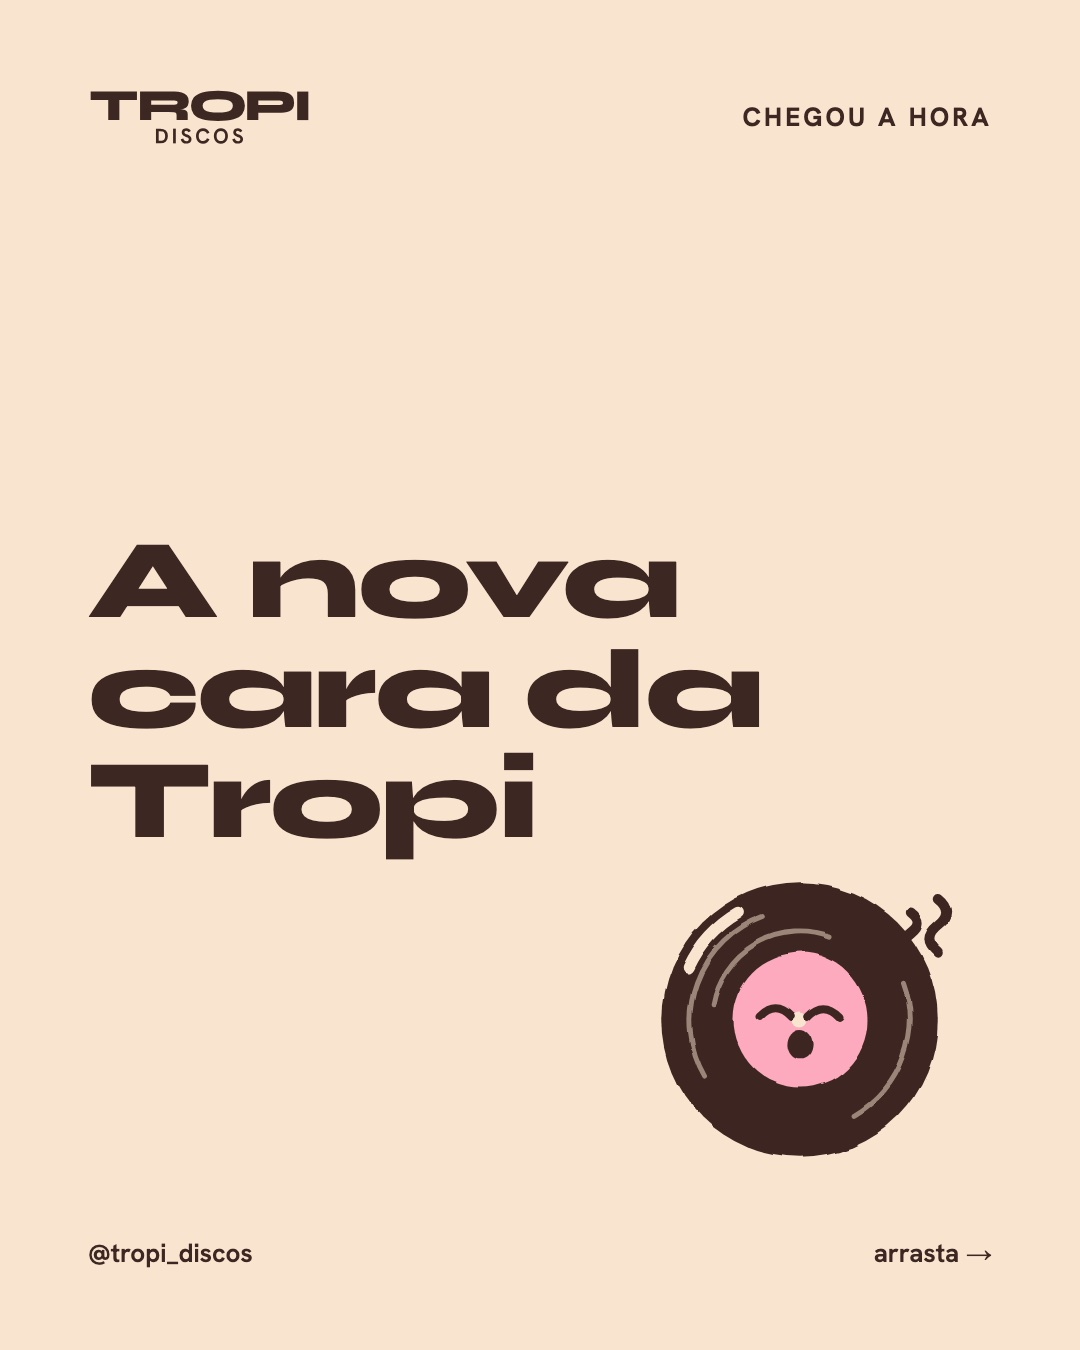
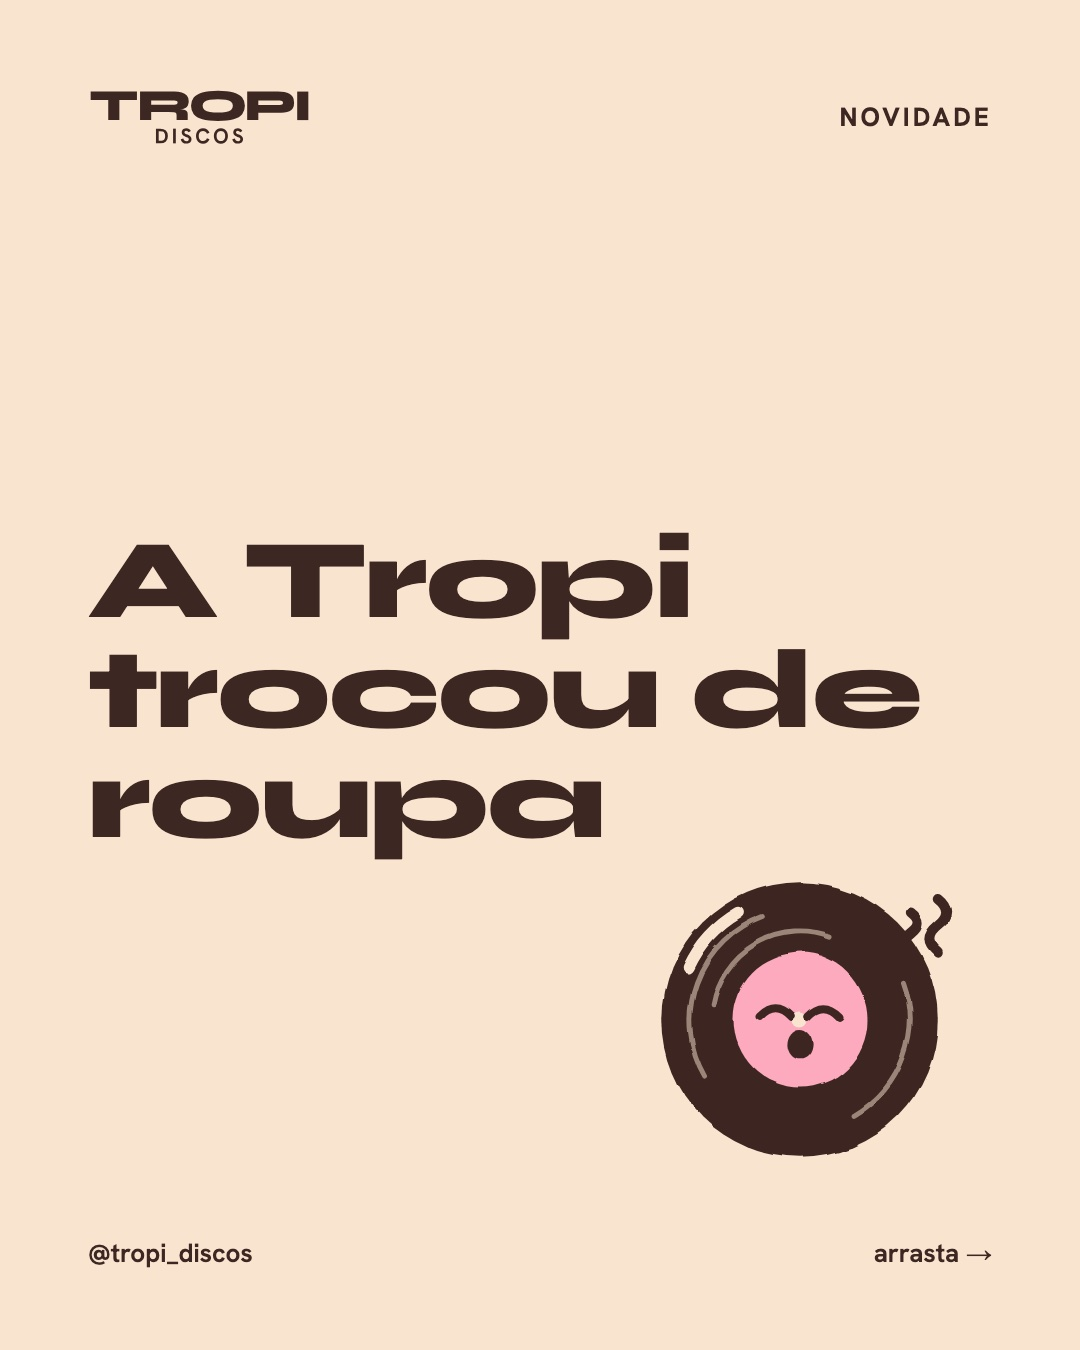
conteudo(tropi): post 05 com texto mais leve e o site novo no slide 4

Changed region(s): [[0.0611, 0.3733, 0.8556, 0.6533], [0.6722, 0.0622, 0.9167, 0.0933]]

diff --git a/clientes/tropi/2026-10/posts/05-nova-cara-da-tropi/slide-4.html b/clientes/tropi/2026-10/posts/05-nova-cara-da-tropi/slide-4.html
@@ -6,9 +6,8 @@
 </head>
 <body class="bg-oliva">
 <div class="topo"><img class="logo" src="file:///Users/Lucas/Documents/Freelas/tropi-discos/marca/logo/final/logo/tropi-logo-cafe.svg" alt="Tropi Discos"><span class="count">04 / 06</span></div>
-<div class="bloco" style="margin-top:430px"><span class="rotulo">Mais tropical</span><h2 class="ttl">A Tropi ficou mais tropical</h2><p class="texto">A cara nova puxa o lado tropical que sempre esteve no nome.</p></div>
+<div class="bloco" style="gap:34px"><h2 class="ttl" style="max-width:none">O site também entrou na onda</h2><div style="border:6px solid var(--tropi-cafe);border-radius:24px;background:var(--tropi-creme);overflow:hidden;box-shadow:0 26px 50px rgba(60,39,34,.30)"><div style="display:flex;gap:12px;padding:16px 20px;border-bottom:5px solid var(--tropi-cafe)"><i style="width:18px;height:18px;border-radius:50%;background:var(--tropi-goiaba);border:3px solid var(--tropi-cafe)"></i><i style="width:18px;height:18px;border-radius:50%;background:var(--tropi-oliva);border:3px solid var(--tropi-cafe)"></i><i style="width:18px;height:18px;border-radius:50%;background:var(--tropi-creme);border:3px solid var(--tropi-cafe)"></i></div><img src="site.png" style="display:block;width:100%" alt=""></div><span class="cta">tropidiscos.com.br</span></div>
 <div class="rodape"><span class="handle">@tropi_discos</span></div>
-<img class="elemento" src="file:///Users/Lucas/Documents/Freelas/tropi-discos/marca/elementos/coqueiro/fundo-oliva/coqueiro-02-simples.svg" style="width:440px;right:60px;top:130px" alt="">
 <script src="file:///Users/Lucas/Documents/Freelas/tropi-discos/marca/elementos/gerador/desenho.js"></script>
 <script src="file:///Users/Lucas/Documents/Freelas/tropi-discos/marca/estudos/elementos-posts-outubro.js"></script>
 <script>TropiPosts.desenharTodos();</script>

diff --git a/clientes/tropi/2026-10/posts/05-nova-cara-da-tropi/slide-2.html b/clientes/tropi/2026-10/posts/05-nova-cara-da-tropi/slide-2.html
@@ -6,7 +6,7 @@
 </head>
 <body class="bg-goiaba">
 <div class="topo"><img class="logo" src="file:///Users/Lucas/Documents/Freelas/tropi-discos/marca/logo/final/logo/tropi-logo-cafe.svg" alt="Tropi Discos"><span class="count">02 / 06</span></div>
-<div class="bloco"><span class="rotulo">As cores</span><h2 class="ttl">Café e goiaba</h2><div class="amostras"><span class="amostra"><i style="background:var(--tropi-creme)"></i>Creme</span><span class="amostra"><i style="background:var(--tropi-goiaba)"></i>Goiaba</span><span class="amostra"><i style="background:var(--tropi-oliva)"></i>Oliva</span><span class="amostra"><i style="background:var(--tropi-cafe)"></i>Café</span></div><p class="texto">Quatro cores novas para a mesma loja: creme, goiaba, oliva e café.</p></div>
+<div class="bloco"><h2 class="ttl">Pintou cor nova por aqui</h2><div class="amostras"><span class="amostra"><i style="background:var(--tropi-creme)"></i></span><span class="amostra"><i style="background:var(--tropi-goiaba)"></i></span><span class="amostra"><i style="background:var(--tropi-oliva)"></i></span><span class="amostra"><i style="background:var(--tropi-cafe)"></i></span></div><p class="texto">Tem cheiro de café e gosto de goiaba.</p></div>
 <div class="rodape"><span class="handle">@tropi_discos</span></div>
 <script src="file:///Users/Lucas/Documents/Freelas/tropi-discos/marca/elementos/gerador/desenho.js"></script>
 <script src="file:///Users/Lucas/Documents/Freelas/tropi-discos/marca/estudos/elementos-posts-outubro.js"></script>

diff --git a/clientes/tropi/2026-10/posts/05-nova-cara-da-tropi/slide-5.html b/clientes/tropi/2026-10/posts/05-nova-cara-da-tropi/slide-5.html
@@ -6,7 +6,7 @@
 </head>
 <body class="bg-creme">
 <div class="topo"><img class="logo" src="file:///Users/Lucas/Documents/Freelas/tropi-discos/marca/logo/final/logo/tropi-logo-cafe.svg" alt="Tropi Discos"><span class="count">05 / 06</span></div>
-<div class="bloco"><span class="rotulo">O que continua</span><h2 class="ttl">Os mesmos discos</h2><img class="capa-disco" src="capa.png" style="width:520px" alt=""><p class="texto" style="max-width:28ch">Xande Canta Caetano em vinil transparente 180g e o resto da Seleção Tropi, no mesmo lugar.</p></div>
+<div class="bloco"><span class="rotulo">O que não muda</span><h2 class="ttl">Os discos, esses continuam</h2><img class="capa-disco" src="capa.png" style="width:500px" alt=""><p class="texto" style="max-width:28ch">Escolhidos um a um, do jeito de sempre. Tipo esse Xande Canta Caetano em vinil transparente.</p></div>
 <div class="rodape"><span class="handle">@tropi_discos</span></div>
 <script src="file:///Users/Lucas/Documents/Freelas/tropi-discos/marca/elementos/gerador/desenho.js"></script>
 <script src="file:///Users/Lucas/Documents/Freelas/tropi-discos/marca/estudos/elementos-posts-outubro.js"></script>

diff --git a/clientes/tropi/2026-10/posts/05-nova-cara-da-tropi/slide-1.html b/clientes/tropi/2026-10/posts/05-nova-cara-da-tropi/slide-1.html
@@ -5,8 +5,8 @@
 <link href="file:///Users/Lucas/Code/freelas/instagram-agent/clientes/tropi/cafe-goiaba.css" rel="stylesheet">
 </head>
 <body class="bg-creme">
-<div class="topo"><img class="logo" src="file:///Users/Lucas/Documents/Freelas/tropi-discos/marca/logo/final/logo/tropi-logo-cafe.svg" alt="Tropi Discos"><span class="rotulo">Chegou a hora</span></div>
-<div class="bloco"><h1 class="ttl-xl">A nova<br>cara da<br>Tropi</h1></div>
+<div class="topo"><img class="logo" src="file:///Users/Lucas/Documents/Freelas/tropi-discos/marca/logo/final/logo/tropi-logo-cafe.svg" alt="Tropi Discos"><span class="rotulo">Novidade</span></div>
+<div class="bloco"><h1 class="ttl-xl">A Tropi<br>trocou de<br>roupa</h1></div>
 <div class="rodape"><span class="handle">@tropi_discos</span><span class="handle">arrasta →</span></div>
 <img class="elemento" src="file:///Users/Lucas/Documents/Freelas/tropi-discos/marca/elementos/mascote-disco/fundo-creme/mascote-05-cantando.svg" style="width:420px;right:70px;bottom:120px" alt="">
 <script src="file:///Users/Lucas/Documents/Freelas/tropi-discos/marca/elementos/gerador/desenho.js"></script>

diff --git a/clientes/tropi/2026-10/posts/05-nova-cara-da-tropi/slide-3.html b/clientes/tropi/2026-10/posts/05-nova-cara-da-tropi/slide-3.html
@@ -6,7 +6,7 @@
 </head>
 <body class="bg-cafe">
 <div class="topo"><img class="logo" src="file:///Users/Lucas/Documents/Freelas/tropi-discos/marca/logo/final/logo/tropi-logo-creme.svg" alt="Tropi Discos"><span class="count">03 / 06</span></div>
-<div class="bloco"><span class="rotulo">O mascote</span><h2 class="ttl">Prazer, nosso mascote</h2><p class="texto">Ele vai aparecer por aqui indicando disco, avisando novidade e cantando junto.</p></div>
+<div class="bloco"><h2 class="ttl">Prazer, a gente tem mascote</h2><p class="texto">Ele vai indicar disco, avisar quando chegar novidade e, claro, cantar junto.</p></div>
 <div class="rodape"><span class="handle">@tropi_discos</span></div>
 <img class="elemento" src="file:///Users/Lucas/Documents/Freelas/tropi-discos/marca/elementos/mascote-disco/fundo-cafe/mascote-02-piscadinha.svg" style="width:340px;right:80px;bottom:130px" alt="">
 <script src="file:///Users/Lucas/Documents/Freelas/tropi-discos/marca/elementos/gerador/desenho.js"></script>

diff --git a/clientes/tropi/2026-10/posts/05-nova-cara-da-tropi/slide-6.html b/clientes/tropi/2026-10/posts/05-nova-cara-da-tropi/slide-6.html
@@ -6,7 +6,7 @@
 </head>
 <body class="bg-goiaba">
 <div class="topo"><img class="logo" src="file:///Users/Lucas/Documents/Freelas/tropi-discos/marca/logo/final/logo/tropi-logo-cafe.svg" alt="Tropi Discos"><span class="rotulo">Sua vez</span></div>
-<div class="bloco"><h2 class="ttl-xl">Gostou da cara nova?</h2><p class="texto">Conta pra gente nos comentários.</p></div>
+<div class="bloco"><h2 class="ttl-xl">E aí, curtiu?</h2><p class="texto">Conta pra gente nos comentários.</p></div>
 <div class="rodape"><span class="handle">@tropi_discos</span></div>
 <img class="elemento" src="file:///Users/Lucas/Documents/Freelas/tropi-discos/marca/elementos/mascote-disco/fundo-goiaba/mascote-04-sorrindo.svg" style="width:380px;right:60px;bottom:120px" alt="">
 <script src="file:///Users/Lucas/Documents/Freelas/tropi-discos/marca/elementos/gerador/desenho.js"></script>

diff --git a/clientes/tropi/2026-10/posts/05-nova-cara-da-tropi/legenda.md b/clientes/tropi/2026-10/posts/05-nova-cara-da-tropi/legenda.md
@@ -1,7 +1,7 @@
-A Tropi está de cara nova: cores novas, um mascote e um jeito mais tropical de aparecer por aqui.
+A Tropi trocou de roupa! 🌴
 
-A loja continua a mesma: vinil de música brasileira, novo e garimpado, escolhido um a um. Mudou a cara, e o site vem logo atrás.
+Cor nova, mascote novo, site novo e um pé ainda mais no tropical. Os discos continuam escolhidos um a um, do jeito de sempre.
 
-Conta pra gente nos comentários o que achou!
+Conta pra gente nos comentários o que achou.
 
 #tropidiscos #vinil #musicabrasileira
